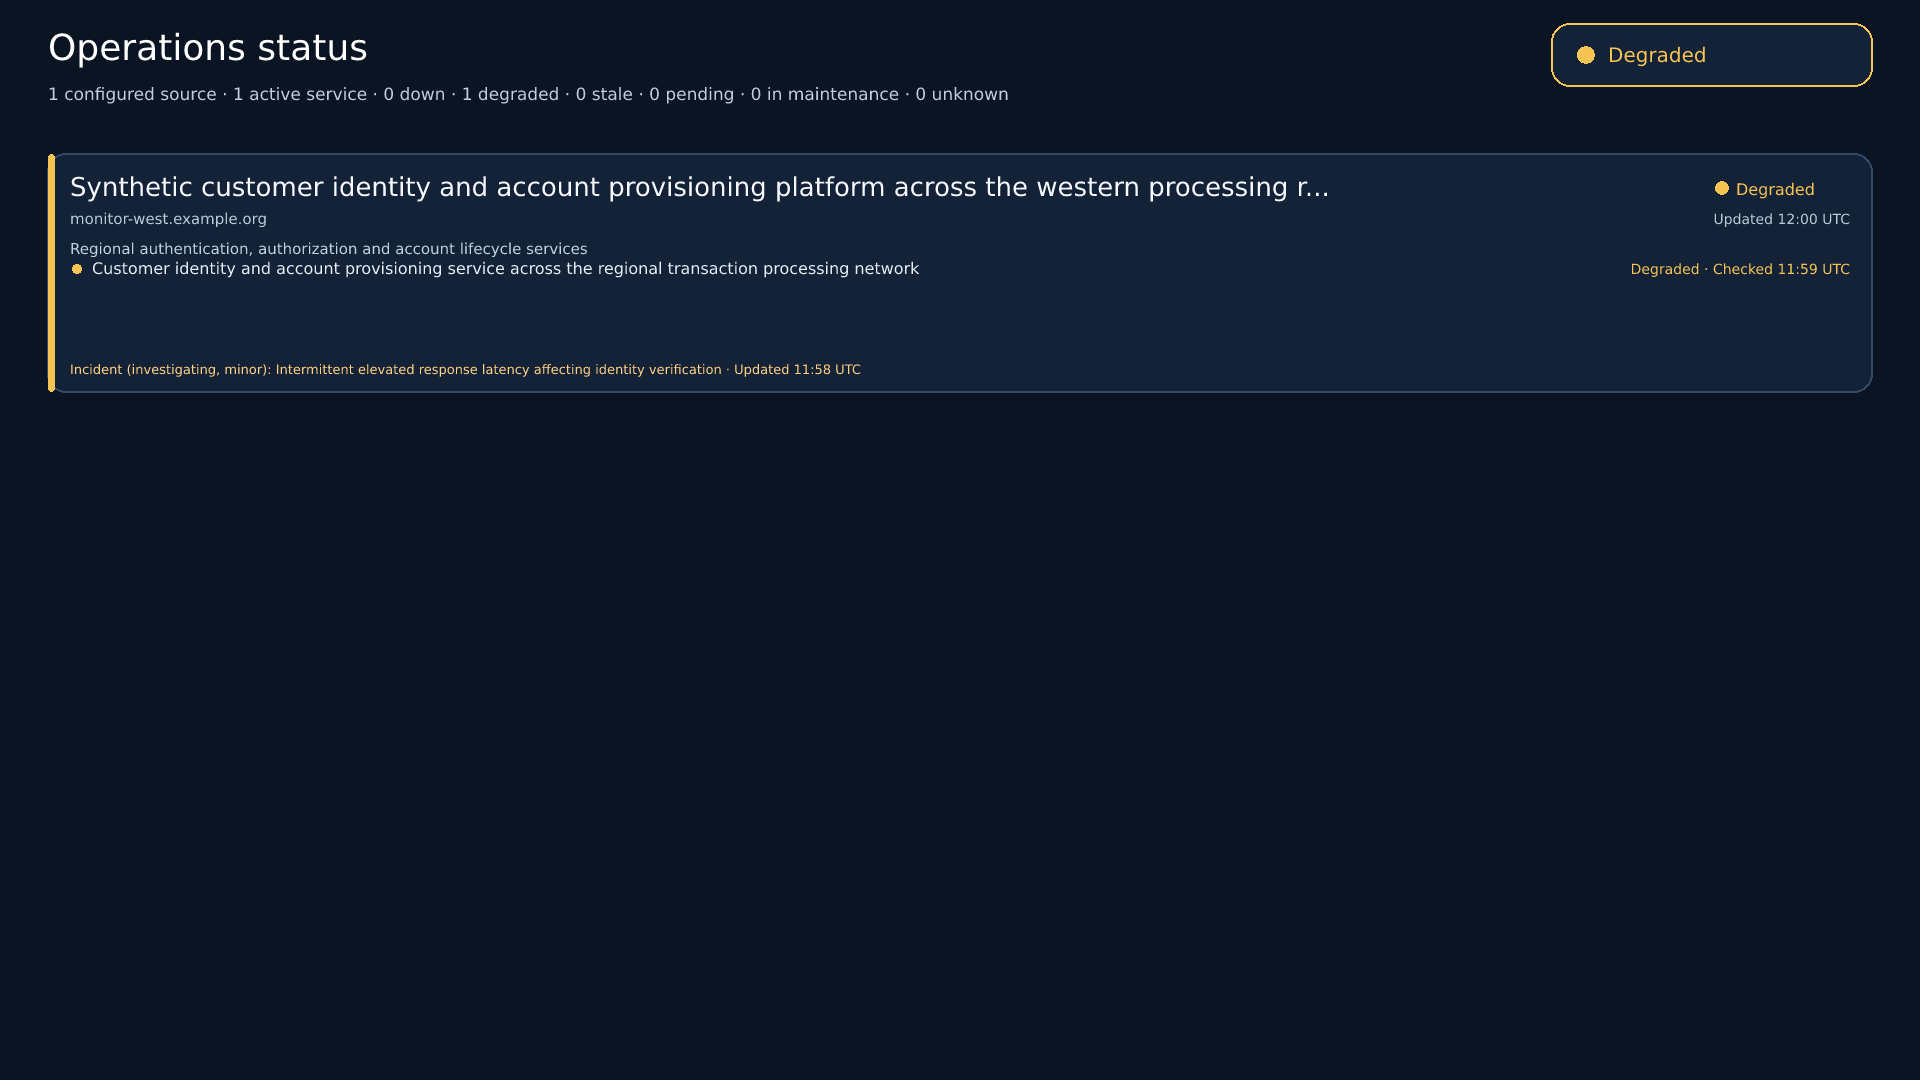
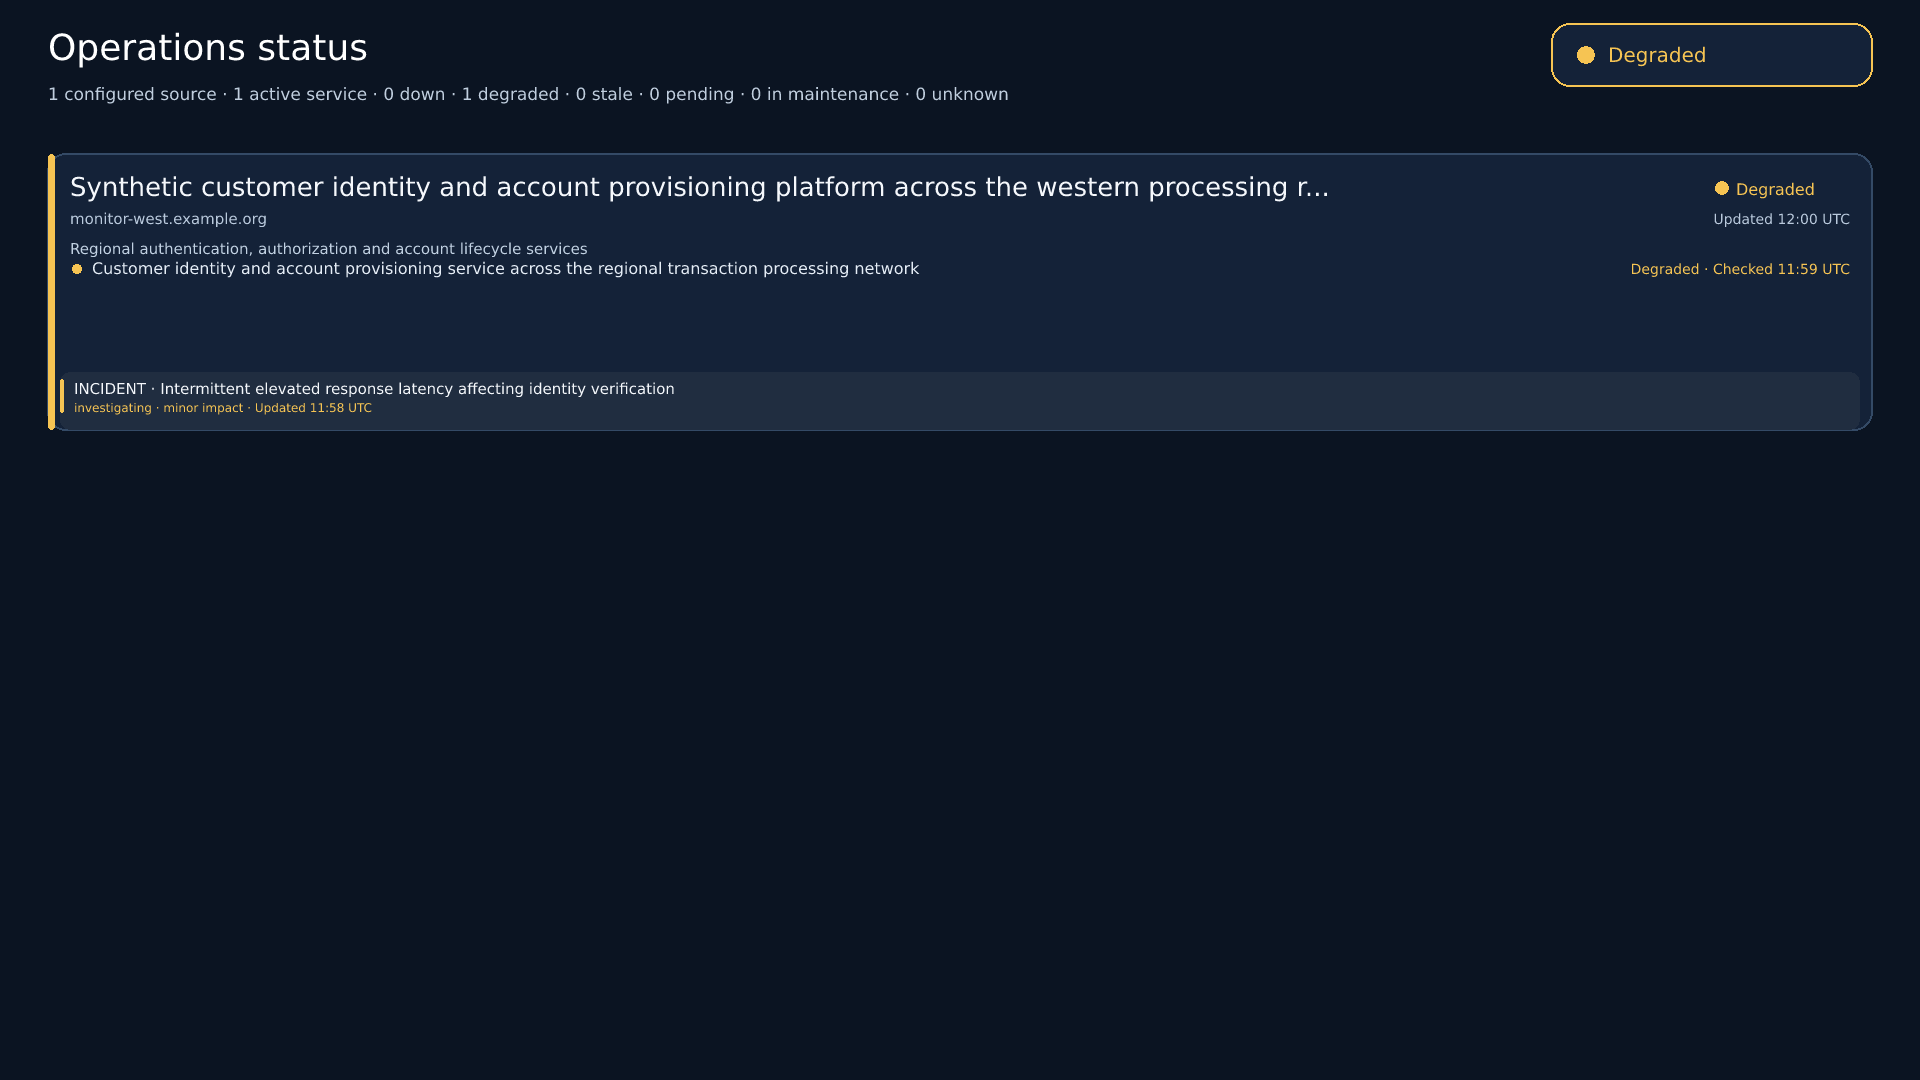
Improve Statuspage event visibility

Changed region(s): [[0.0, 0.3361, 0.9688, 0.3972]]

diff --git a/workers/device-sync/src/api-dashboard/render.ts b/workers/device-sync/src/api-dashboard/render.ts
@@ -1,6 +1,6 @@
 import { Resvg, initWasm } from "@resvg/resvg-wasm";
 import { healthLabel, overallHealth, type DashboardSource, type Health } from "./model.ts";
-import { svgGroupSummary, svgPanel, svgServiceRow, svgStatusBadge, svgStatusDot, svgText, truncateText } from "./render-components.ts";
+import { svgEventPanel, svgGroupSummary, svgPanel, svgServiceRow, svgStatusBadge, svgStatusDot, svgText, truncateText, type SvgDashboardEvent } from "./render-components.ts";
 
 const MAX_PIXELS = 3840 * 2160;
 const MAX_PNG_BYTES = 32 * 1024 * 1024;
@@ -81,10 +81,10 @@ function buildServiceRows(source: DashboardSource): ServiceDisplayRow[] {
 function cardHeightFor(source: DashboardSource, scale: number): number {
   const rows = buildServiceRows(source);
   const hasDetails = rows.some((row) => row.kind === "summary" || row.kind === "service" || row.kind === "empty");
-  const hasEvents = source.incidents.length + source.maintenance.length > 0;
-  const footerLines = (hasDetails ? 1 : 0) + (hasEvents ? 1 : 0);
+  const eventCount = Math.min(3, source.incidents.length + source.maintenance.length);
+  const eventPanelHeight = eventCount ? 14 + eventCount * 44 : 0;
   const serviceLines = rows.length;
-  return Math.max(176 * scale, 150 * scale + serviceLines * 24 * scale + footerLines * 20 * scale);
+  return Math.max(176 * scale, 150 * scale + serviceLines * 24 * scale + (hasDetails ? 20 * scale : 0) + eventPanelHeight * scale);
 }
 
 function sourceHealth(source: DashboardSource): Health {
@@ -111,9 +111,17 @@ function card(source: DashboardSource, x: number, y: number, width: number, heig
   const lineH = s(compact ? 18 : Math.max(20, Math.min(24, height / 18)));
   const services = source.components.filter((component) => !component.isGroup);
   const serviceRows = buildServiceRows(source);
-  const events = [...source.incidents.map((item) => `Incident (${item.status}, ${item.impact}): ${item.name}${item.updatedAt ? ` · Updated ${formatClock(item.updatedAt)}` : ""}`), ...source.maintenance.map((item) => `Maintenance (${item.status}): ${item.name}${item.updatedAt ? ` · Updated ${formatClock(item.updatedAt)}` : ""}`)];
-  const footerRows = (serviceRows.some((row) => row.kind === "service" || row.kind === "empty" || row.kind === "summary") ? 1 : 0) + (events.length ? 1 : 0);
-  const maxLines = Math.max(0, Math.floor((height - s(compact ? 58 : source.error ? 170 : 150) - s(footerRows * 20)) / lineH));
+  const events: SvgDashboardEvent[] = [
+    ...source.incidents.map((item) => ({ kind: "Incident" as const, name: item.name, status: item.status, impact: item.impact,
+      color: item.impact === "critical" || item.impact === "major" ? colors.down : colors.degraded, updatedAt: item.updatedAt })),
+    ...source.maintenance.map((item) => ({ kind: "Maintenance" as const, name: item.name, status: item.status, impact: item.impact,
+      color: colors.maintenance, updatedAt: item.updatedAt, scheduledFor: item.scheduledFor })),
+  ];
+  const visibleEvents = events.slice(0, 3);
+  const eventAreaHeight = visibleEvents.length ? s(14 + visibleEvents.length * 44) : 0;
+  const hasDetails = serviceRows.some((row) => row.kind === "service" || row.kind === "empty" || row.kind === "summary");
+  const contentOffset = compact ? 60 : source.error ? 120 : 100;
+  const maxLines = Math.max(0, Math.floor((height - s(contentOffset) - eventAreaHeight - s(hasDetails ? 20 : 8)) / lineH));
   const showRows = serviceRows.slice(0, maxLines);
   while (showRows.at(-1)?.kind === "group") showRows.pop();
   const visibleServices = showRows.reduce((count, row) => count + (row.kind === "service" ? 1 : row.kind === "summary" ? row.count : 0), 0);
@@ -160,12 +168,10 @@ function card(source: DashboardSource, x: number, y: number, width: number, heig
   });
   if (hiddenServices || hiddenGroups) {
     const message = [hiddenGroups ? `${hiddenGroups} more groups` : "", hiddenServices ? `${hiddenServices} more services` : ""].filter(Boolean).join(" · ");
-    svg += `<text x="${left}" y="${y + height - s(events.length ? 36 : 18)}" fill="#b7c8da" font-size="${s(compact ? 10 : 13)}">+ ${svgText(message)}</text>`;
+    svg += `<text x="${left}" y="${y + height - eventAreaHeight - s(10)}" fill="#b7c8da" font-size="${s(compact ? 10 : 13)}">+ ${svgText(message)}</text>`;
   }
-  if (events.length) {
-    const suffix = events.length > 1 ? ` · +${events.length - 1} more active events` : "";
-    const first = truncateText(events[0], Math.max(8, Math.floor(width / s(compact ? 7 : 8)) - suffix.length));
-    svg += `<text x="${left}" y="${y + height - s(compact ? 8 : 18)}" fill="#ffd082" font-size="${s(compact ? 10 : 13)}">${svgText(first + suffix)}</text>`;
+  if (visibleEvents.length) {
+    svg += svgEventPanel({ x: x + s(12), y: y + height - eventAreaHeight, width: width - s(24), height: eventAreaHeight, scale, events: visibleEvents, hiddenCount: events.length - visibleEvents.length });
   }
   svg += "</g>";
   return svg;

diff --git a/workers/device-sync/src/api-dashboard/render.test.ts b/workers/device-sync/src/api-dashboard/render.test.ts
@@ -1,7 +1,7 @@
 import assert from "node:assert/strict";
 import { test } from "node:test";
 import { dashboardSVG, renderDashboardPNG } from "./render.ts";
-import { svgCheckHistory, svgGroupSummary, svgPanel, svgServiceRow, svgStatusBadge, svgStatusDot, svgText, truncateText } from "./render-components.ts";
+import { svgCheckHistory, svgEventPanel, svgGroupSummary, svgPanel, svgServiceRow, svgStatusBadge, svgStatusDot, svgText, truncateText } from "./render-components.ts";
 import type { DashboardSource } from "./model.ts";
 
 const sample: DashboardSource = { id: "source-1", provider: "uptime-kuma", displayName: "<SCRIPT>alert('x')</SCRIPT>", fetchedAt: "2026-01-01T00:00:00.000Z", freshness: "fresh", status: "operational", statusDescription: "All systems operational", incidents: [], maintenance: [], components: [
@@ -36,7 +36,7 @@ test("overflow and active event footer labels occupy separate rows", () => {
   };
   const svg = dashboardSVG([crowded]);
   const overflowY = Number(svg.match(/<text x="[^"]+" y="([\d.]+)"[^>]*>\+ \d+ more services<\/text>/)?.[1]);
-  const eventsY = Number(svg.match(/<text x="[^"]+" y="([\d.]+)"[^>]*>Incident \(/)?.[1]);
+  const eventsY = Number(svg.match(/<text x="[^"]+" y="([\d.]+)"[^>]*>INCIDENT/)?.[1]);
   assert.ok(Number.isFinite(overflowY));
   assert.ok(Number.isFinite(eventsY));
   assert.ok(Math.abs(overflowY - eventsY) >= 18, `footer baselines are too close: ${overflowY} and ${eventsY}`);
@@ -151,6 +151,32 @@ test("source and event freshness labels distinguish updates from failed checks",
   assert.match(svg, /Updated 12:20 UTC/);
 });
 
+test("Statuspage incidents and scheduled maintenance use a prominent event panel", () => {
+  const source: DashboardSource = {
+    ...sample,
+    provider: "atlassian-statuspage",
+    incidents: [{ id: "incident", name: "Elevated error rate", status: "investigating", impact: "major", updatedAt: null }],
+    maintenance: [{ id: "maintenance", name: "Database upgrade", status: "scheduled", impact: "maintenance", updatedAt: "2026-01-02T03:00:00.000Z", scheduledFor: "2026-01-02T05:00:00.000Z" }],
+  };
+  const svg = dashboardSVG([source]);
+  assert.match(svg, /fill="#202d40"/);
+  assert.match(svg, /INCIDENT/);
+  assert.match(svg, /MAINTENANCE/);
+  assert.match(svg, /Elevated error rate/);
+  assert.match(svg, /Database upgrade/);
+  assert.match(svg, /Starts 2026-01-02 05:00 UTC/);
+  assert.match(svg, /Updated 03:00 UTC/);
+});
+
+test("shared event panel escapes names and gives scheduled time a separate visual line", () => {
+  const panel = svgEventPanel({ x: 0, y: 0, width: 600, height: 72, scale: 1, events: [
+    { kind: "Maintenance", name: "Database <upgrade>", status: "scheduled", color: "#a78bfa", scheduledFor: "2026-01-02T05:00:00.000Z" },
+  ] });
+  assert.match(panel, /MAINTENANCE/);
+  assert.match(panel, /Database &lt;upgrade&gt;/);
+  assert.match(panel, /Starts 2026-01-02 05:00 UTC/);
+});
+
 test("SVG color attributes escape caller-provided values", () => {
   const hostileColor = '#fff" onload="alert(1)';
   const fragments = [
@@ -185,7 +211,7 @@ test("overflow counts only omitted services and reports hidden incidents explici
   };
   const svg = dashboardSVG([crowded]);
   assert.match(svg, /more services/);
-  assert.match(svg, /\+3 more active events/);
+  assert.match(svg, /\+1 more active events/);
 });
 
 test("renderer produces a valid dimensioned PNG and stable bytes", async () => {

diff --git a/workers/device-sync/src/api-dashboard/render-components.ts b/workers/device-sync/src/api-dashboard/render-components.ts
@@ -44,6 +44,47 @@ export function svgGroupSummary(input: { x: number; y: number; right: number; sc
   return result;
 }
 
+export interface SvgDashboardEvent {
+  kind: "Incident" | "Maintenance";
+  name: string;
+  status: string;
+  impact?: string;
+  color: string;
+  updatedAt?: string | null;
+  scheduledFor?: string | null;
+}
+
+function eventClock(value: string | null | undefined, includeDate = false): string | undefined {
+  if (!value) return undefined;
+  const date = new Date(value);
+  if (!Number.isFinite(date.getTime())) return undefined;
+  return includeDate ? `${date.toISOString().slice(0, 10)} ${date.toISOString().slice(11, 16)} UTC` : `${date.toISOString().slice(11, 16)} UTC`;
+}
+
+/** Shared, high-contrast event panel for active incidents and scheduled work. */
+export function svgEventPanel(input: { x: number; y: number; width: number; height: number; scale: number; events: SvgDashboardEvent[]; hiddenCount?: number }): string {
+  const { x, y, width, height, scale, events, hiddenCount = 0 } = input;
+  if (!events.length || width <= 0 || height <= 0) return "";
+  const s = (value: number) => value * scale;
+  let result = `<rect x="${x}" y="${y}" width="${width}" height="${height}" rx="${s(10)}" fill="#202d40"/>`;
+  events.forEach((event, index) => {
+    const rowY = y + s(7 + index * 44);
+    const titleBaseline = rowY + s(15);
+    const metaBaseline = rowY + s(33);
+    const title = `${event.kind.toUpperCase()} · ${event.name}`;
+    const meta = event.kind === "Maintenance"
+      ? [event.status.replace(/_/g, " "), event.scheduledFor ? `Starts ${eventClock(event.scheduledFor, true)}` : undefined, event.updatedAt ? `Updated ${eventClock(event.updatedAt)}` : undefined].filter(Boolean).join(" · ")
+      : [event.status.replace(/_/g, " "), event.impact ? `${event.impact} impact` : undefined, event.updatedAt ? `Updated ${eventClock(event.updatedAt)}` : undefined].filter(Boolean).join(" · ");
+    const isLast = index === events.length - 1;
+    const suffix = isLast && hiddenCount ? ` · +${hiddenCount} more active events` : "";
+    const maxChars = Math.max(8, Math.floor((width - s(48)) / s(8.5)));
+    result += `<rect x="${x}" y="${rowY}" width="${s(4)}" height="${s(34)}" rx="${s(2)}" fill="${svgText(event.color)}"/>`;
+    result += `<text x="${x + s(14)}" y="${titleBaseline}" fill="#f4f7fb" font-size="${s(15)}" font-weight="700">${svgText(truncateText(title, maxChars))}</text>`;
+    result += `<text x="${x + s(14)}" y="${metaBaseline}" fill="${svgText(event.color)}" font-size="${s(12)}">${svgText(truncateText(`${meta}${suffix}`, maxChars))}</text>`;
+  });
+  return result;
+}
+
 export function svgCheckHistory(input: { x: number; y: number; width: number; height: number; states: string[]; scale?: number }): string {
   const { x, y, width, height, states, scale = 1 } = input;
   const palette: Record<string, string> = { operational: "#20c997", degraded: "#f6c453", down: "#ff647c", maintenance: "#a78bfa", pending: "#60a5fa", unknown: "#64748b", stale: "#fb923c" };

diff --git a/workers/device-sync/src/api-dashboard/render-worker.test.ts b/workers/device-sync/src/api-dashboard/render-worker.test.ts
@@ -34,7 +34,7 @@ function visualScenarios(base: { width: number; height: number; sources: any[] }
   incident.sources[0].incidents = [{ id: "incident-active", name: "Elevated API response times", status: "investigating", impact: "minor", updatedAt: "2026-11-05T11:58:00.000Z" }];
   scenarios.push({ name: "active-incident", value: incident });
   const maintenance = clone();
-  maintenance.sources[1].maintenance = [{ id: "maintenance-active", name: "Scheduled database cluster maintenance", status: "in_progress", impact: "maintenance", updatedAt: "2026-11-05T11:45:00.000Z" }];
+  maintenance.sources[1].maintenance = [{ id: "maintenance-active", name: "Scheduled database cluster maintenance", status: "scheduled", impact: "maintenance", updatedAt: "2026-11-05T11:45:00.000Z", scheduledFor: "2026-11-06T02:00:00.000Z" }];
   maintenance.sources[1].components[0].status = "maintenance";
   scenarios.push({ name: "scheduled-maintenance", value: maintenance });
   const partial = clone();

diff --git a/workers/device-sync/src/api-dashboard/adapters.ts b/workers/device-sync/src/api-dashboard/adapters.ts
@@ -135,7 +135,7 @@ function incidentList(values: unknown): DashboardIncident[] {
     const row = record(value);
     return { id: safeText(row.id, `incident-${index}`, 100), name: safeText(row.name ?? row.title, "Untitled event"),
       status: safeText(row.status, "unknown", 40), impact: safeText(row.impact, "unknown", 40),
-      updatedAt: parseTimestamp(row.updated_at ?? row.updatedAt ?? row.scheduled_for) };
+      updatedAt: parseTimestamp(row.updated_at ?? row.updatedAt), scheduledFor: parseTimestamp(row.scheduled_for) };
   });
 }
 

diff --git a/workers/device-sync/src/api-dashboard/adapters.test.ts b/workers/device-sync/src/api-dashboard/adapters.test.ts
@@ -71,6 +71,8 @@ test("Atlassian Statuspage preserves groups and children without double-counting
   assert.equal(source.components[3].status, "unknown");
   assert.equal(source.incidents[0].name, "Elevated error rate");
   assert.equal(source.maintenance[0].name, "Database maintenance");
+  assert.equal(source.maintenance[0].updatedAt, "2026-01-02T03:00:00.000Z");
+  assert.equal(source.maintenance[0].scheduledFor, "2026-01-02T05:00:00.000Z");
 });
 
 test("provider codes remain conservative for pending, unknown, and stale states", () => {

diff --git a/workers/device-sync/src/api-dashboard/model.ts b/workers/device-sync/src/api-dashboard/model.ts
@@ -7,6 +7,7 @@ export interface DashboardIncident {
   status: string;
   impact: string;
   updatedAt: string | null;
+  scheduledFor?: string | null;
 }
 
 export interface EndpointCacheMetadata {

diff --git a/docs/api-driven-dashboards.md b/docs/api-driven-dashboards.md
@@ -124,7 +124,11 @@ Group summaries can show a 24-hour check strip from available Kuma heartbeats;
 missing two-hour buckets are shown as unknown, and the strip does not claim an
 uptime percentage. Shared SVG components in
 `src/api-dashboard/render-components.ts` provide escaped status dots, badges,
-panels, service rows, group summaries, and check-history strips.
+panels, service rows, group summaries, event panels, and check-history strips.
+Incident and maintenance events have a dedicated high-contrast area on each
+source card. Scheduled maintenance keeps its start time separate from its last
+update and shows both when available. Major incidents use a stronger severity
+color, while event labels preserve meaning without color.
 
 `npm test` runs a `wrangler dev --local` integration test against Wrangler’s
 Cloudflare Workers runtime. It initializes the bundled Wasm module and font,
